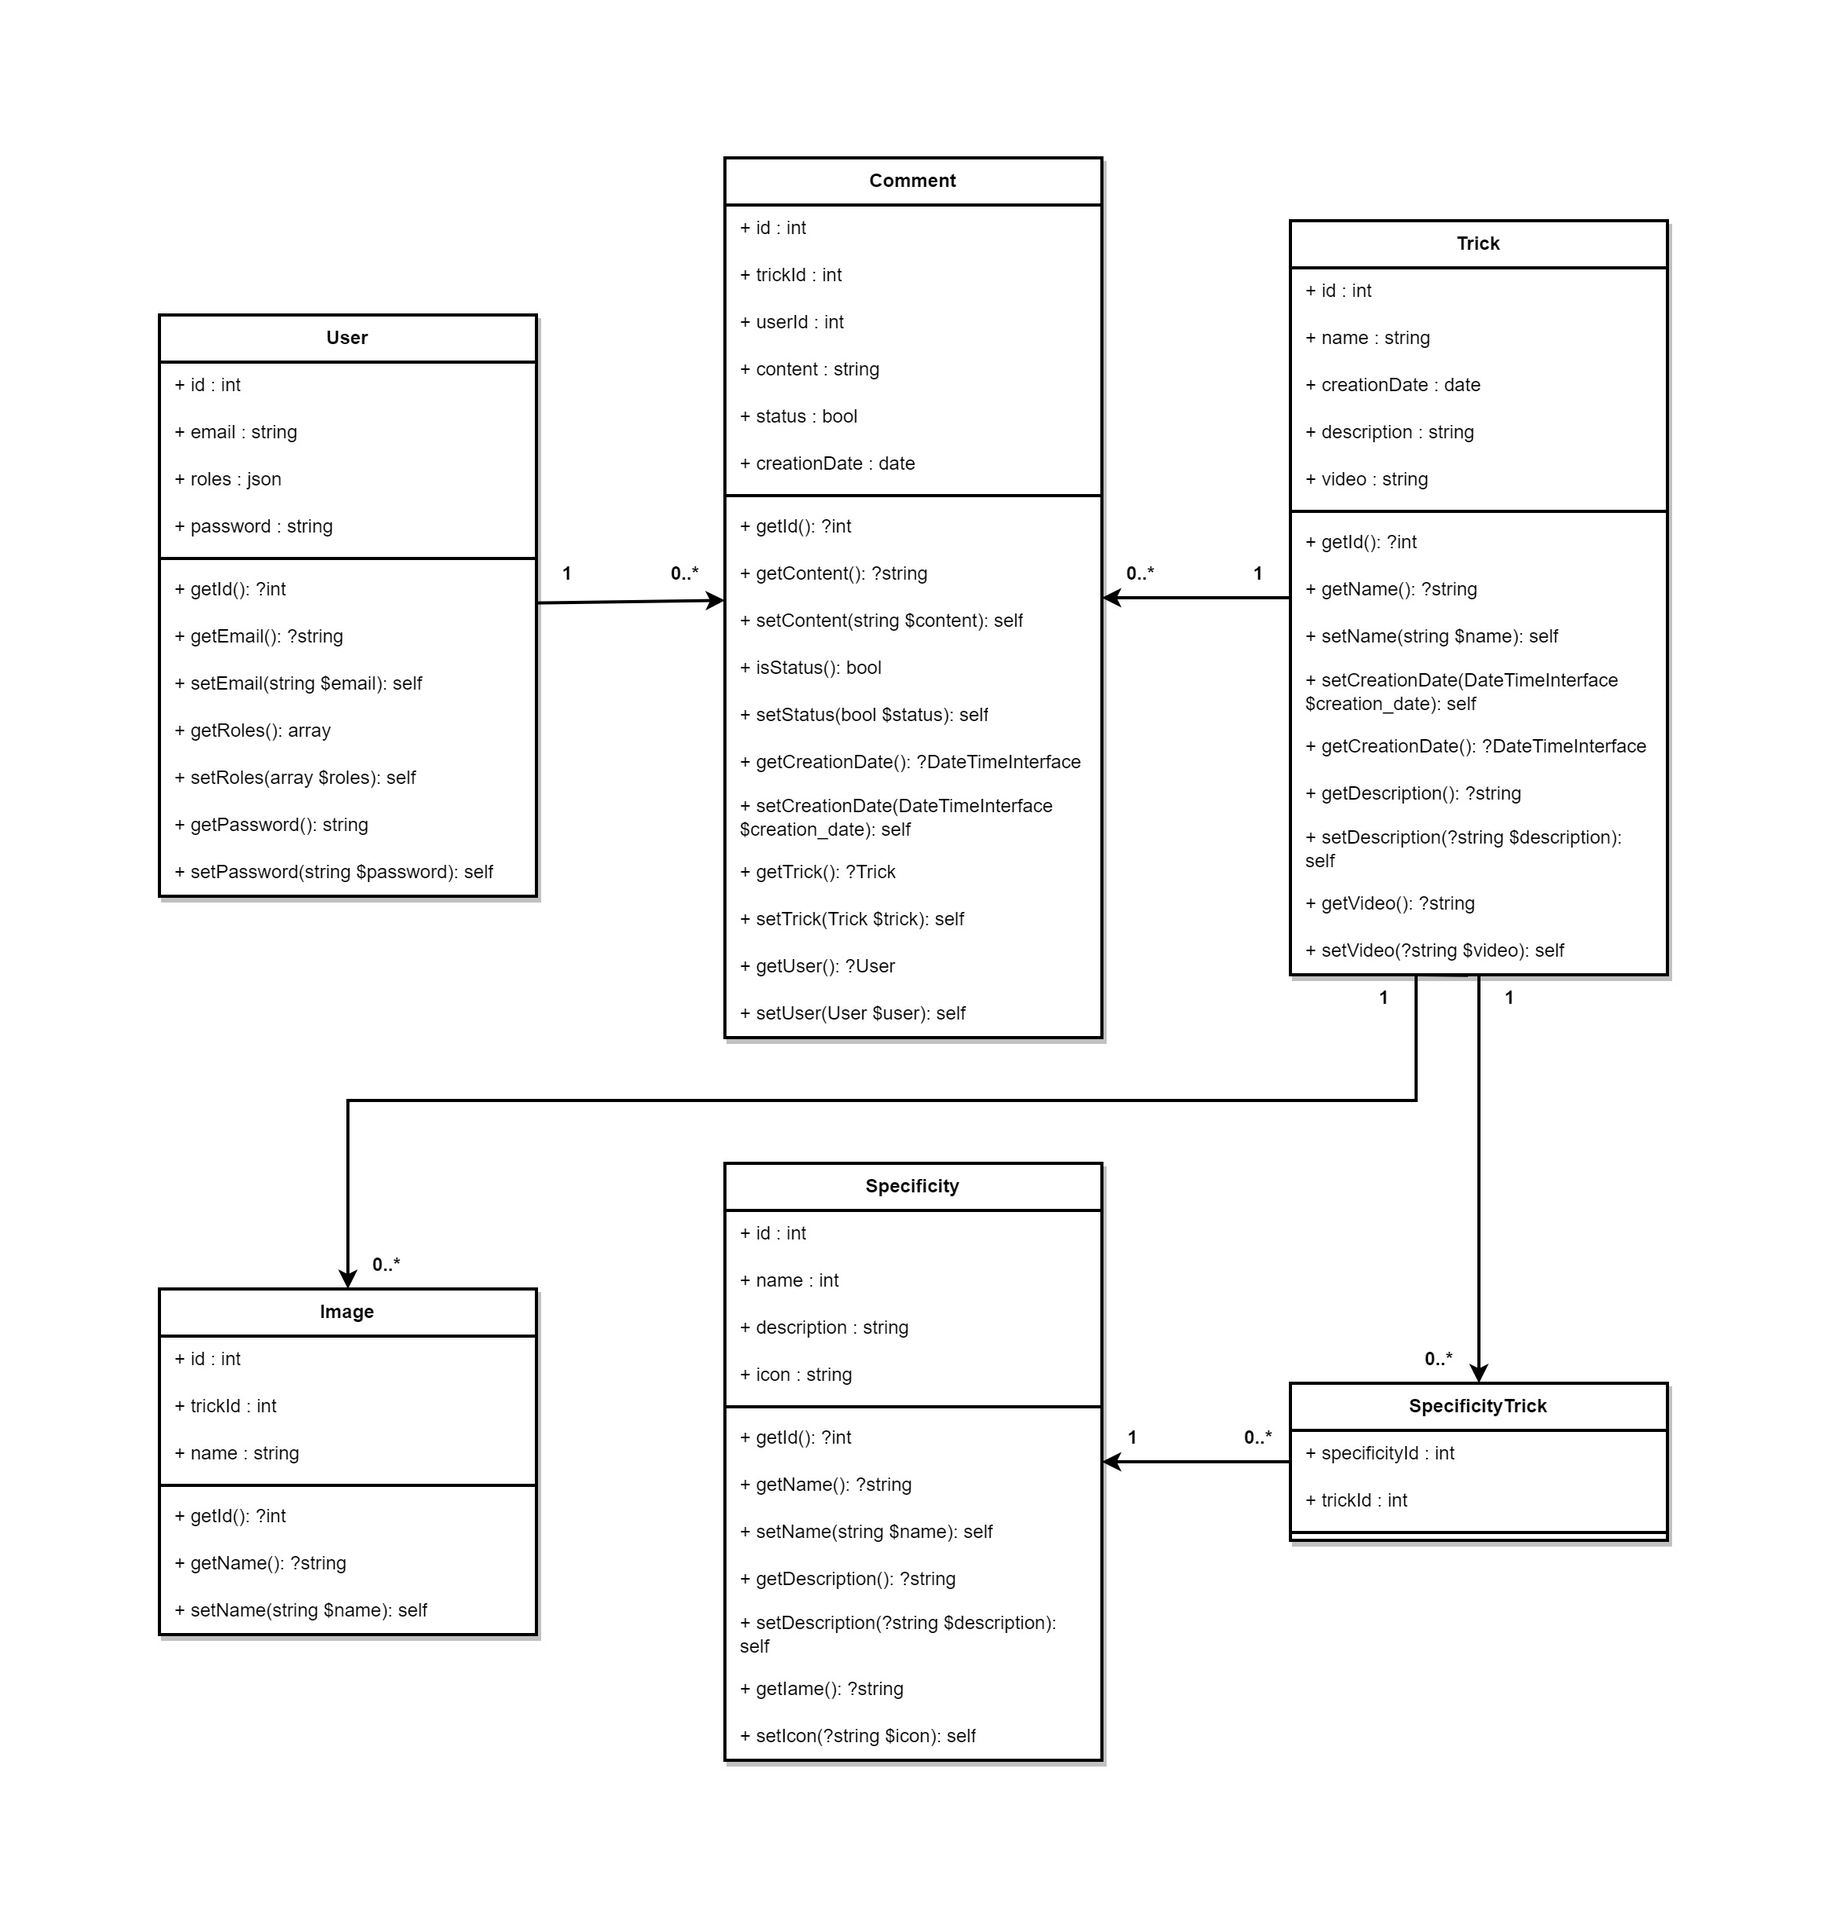
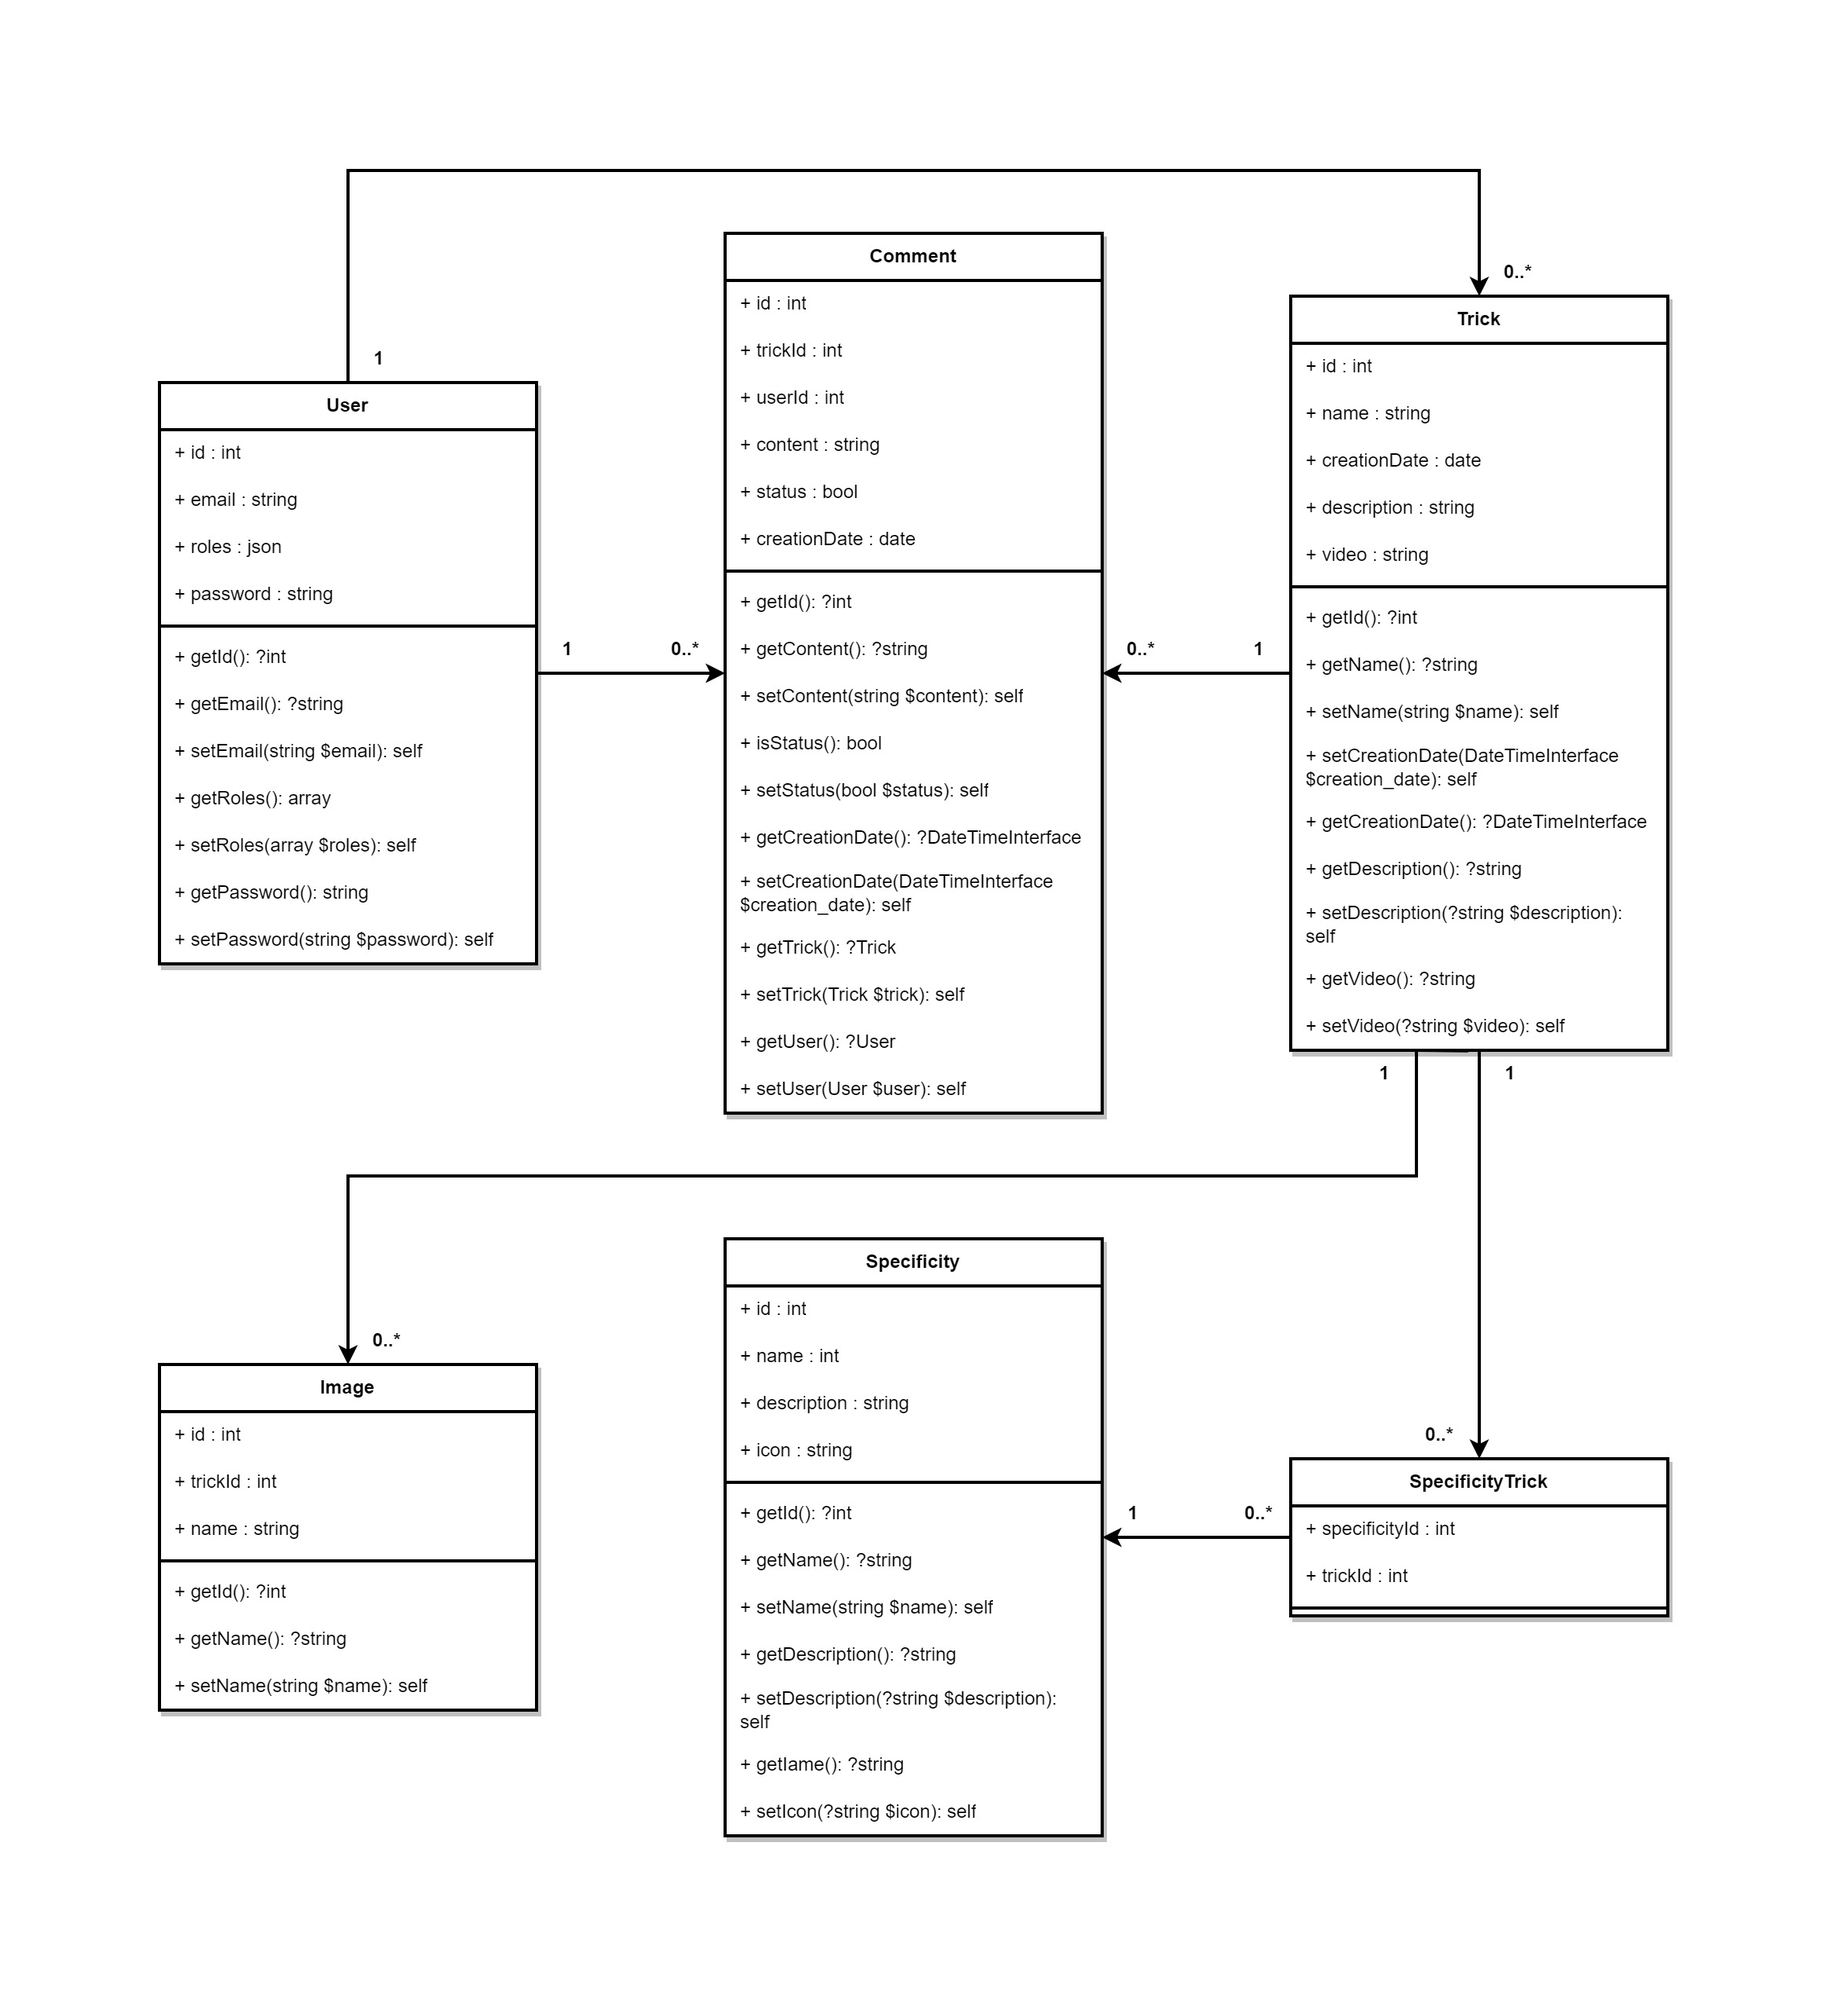
Update diagrams, asociate tricks to authors

diff --git a/public/css/_general.css b/public/css/_general.css
@@ -71,6 +71,10 @@
     font-size: var(--fs-title);
 }
 
+.banner .title h2.author span {
+    opacity: 0.5;
+}
+
 #scroll-to-next-section {
     display: flex;
     justify-content: flex-end;

diff --git a/src/Entity/User.php b/src/Entity/User.php
@@ -44,9 +44,15 @@ class User implements UserInterface, PasswordAuthenticatedUserInterface
      */
     private Collection $comments;
 
+    /**
+     * @ORM\OneToMany(targetEntity=Trick::class, mappedBy="user")
+     */
+    private $tricks;
+
     public function __construct()
     {
         $this->comments = new ArrayCollection();
+        $this->tricks = new ArrayCollection();
     }
 
     public function getId(): ?int
@@ -162,6 +168,36 @@ class User implements UserInterface, PasswordAuthenticatedUserInterface
             // set the owning side to null (unless already changed)
             if ($comment->getUser() === $this) {
                 $comment->setUser(null);
+            }
+        }
+
+        return $this;
+    }
+
+    /**
+     * @return Collection<int, Trick>
+     */
+    public function getTricks(): Collection
+    {
+        return $this->tricks;
+    }
+
+    public function addTrick(Trick $trick): self
+    {
+        if (!$this->tricks->contains($trick)) {
+            $this->tricks[] = $trick;
+            $trick->setUser($this);
+        }
+
+        return $this;
+    }
+
+    public function removeTrick(Trick $trick): self
+    {
+        if ($this->tricks->removeElement($trick)) {
+            // set the owning side to null (unless already changed)
+            if ($trick->getUser() === $this) {
+                $trick->setUser(null);
             }
         }
 

diff --git a/migrations/Version20230120155950.php b/migrations/Version20230120155950.php
@@ -1,0 +1,35 @@
+<?php
+
+declare(strict_types=1);
+
+namespace DoctrineMigrations;
+
+use Doctrine\DBAL\Schema\Schema;
+use Doctrine\Migrations\AbstractMigration;
+
+/**
+ * Auto-generated Migration: Please modify to your needs!
+ */
+final class Version20230120155950 extends AbstractMigration
+{
+    public function getDescription(): string
+    {
+        return '';
+    }
+
+    public function up(Schema $schema): void
+    {
+        // this up() migration is auto-generated, please modify it to your needs
+        $this->addSql('ALTER TABLE trick ADD user_id INT DEFAULT NULL');
+        $this->addSql('ALTER TABLE trick ADD CONSTRAINT FK_D8F0A91EA76ED395 FOREIGN KEY (user_id) REFERENCES user (id)');
+        $this->addSql('CREATE INDEX IDX_D8F0A91EA76ED395 ON trick (user_id)');
+    }
+
+    public function down(Schema $schema): void
+    {
+        // this down() migration is auto-generated, please modify it to your needs
+        $this->addSql('ALTER TABLE trick DROP FOREIGN KEY FK_D8F0A91EA76ED395');
+        $this->addSql('DROP INDEX IDX_D8F0A91EA76ED395 ON trick');
+        $this->addSql('ALTER TABLE trick DROP user_id');
+    }
+}

diff --git a/src/Entity/Trick.php b/src/Entity/Trick.php
@@ -30,7 +30,7 @@ class Trick
      * @Gedmo\Slug(fields={"name"})
      * @ORM\Column(type="string", length=255)
      */
-    private ?string $slug;
+    private ?string $slug = null;
 
     /**
      * @ORM\Column(type="datetime")
@@ -65,6 +65,11 @@ class Trick
      * @ORM\Column(type="string", length=255, nullable=true)
      */
     private ?string $video = null;
+
+    /**
+     * @ORM\ManyToOne(targetEntity=User::class, inversedBy="tricks", cascade={"persist"})
+     */
+    private ?User $user;
 
     public function __construct()
     {
@@ -221,6 +226,18 @@ class Trick
     public function setVideo(?string $video): self
     {
         $this->video = $video;
+
+        return $this;
+    }
+
+    public function getUser(): ?User
+    {
+        return $this->user;
+    }
+
+    public function setUser(?User $user): self
+    {
+        $this->user = $user;
 
         return $this;
     }

diff --git a/migrations/Version20230120155758.php b/migrations/Version20230120155758.php
@@ -1,0 +1,31 @@
+<?php
+
+declare(strict_types=1);
+
+namespace DoctrineMigrations;
+
+use Doctrine\DBAL\Schema\Schema;
+use Doctrine\Migrations\AbstractMigration;
+
+/**
+ * Auto-generated Migration: Please modify to your needs!
+ */
+final class Version20230120155758 extends AbstractMigration
+{
+    public function getDescription(): string
+    {
+        return '';
+    }
+
+    public function up(Schema $schema): void
+    {
+        // this up() migration is auto-generated, please modify it to your needs
+        $this->addSql('ALTER TABLE trick DROP user_id');
+    }
+
+    public function down(Schema $schema): void
+    {
+        // this down() migration is auto-generated, please modify it to your needs
+        $this->addSql('ALTER TABLE trick ADD user_id INT NOT NULL');
+    }
+}

diff --git a/src/Controller/Admin/TrickController.php b/src/Controller/Admin/TrickController.php
@@ -54,6 +54,7 @@ class TrickController extends AbstractController
         $form->handleRequest($request);
 
         if ($form->isSubmitted() && $form->isValid()) {
+            $trick->setUser($this->getUser());
             $this->isUnique($trick->getName(), $tricksNames);
             $this->addImages($form, $trick, $trickRepository);
             $this->addVideo($trick, $trickRepository);
@@ -103,6 +104,7 @@ class TrickController extends AbstractController
         }
 
         if ($form->isSubmitted() && $form->isValid()) {
+            $trick->setUser($this->getUser());
             $this->isUnique($trick->getName(), $tricksNames, $previousTrickName);
             $this->addImages($form, $trick, $trickRepository);
 
